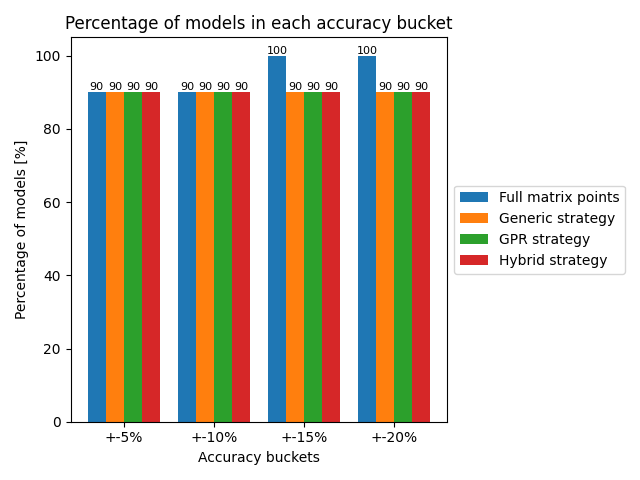
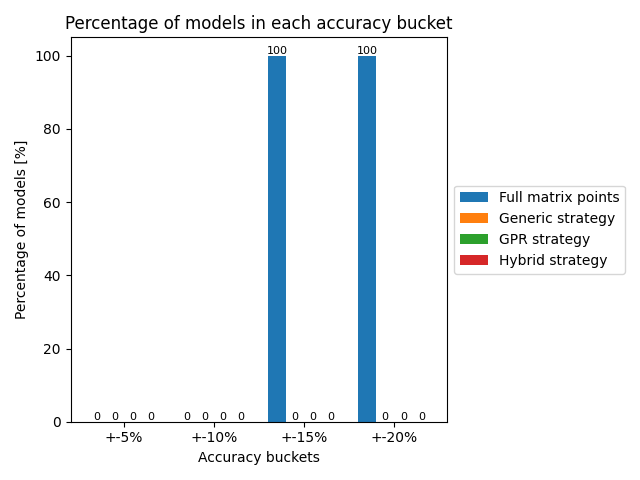
fixed bug for 4 parameters

diff --git a/synthetic_benchmark.py b/synthetic_benchmark.py
@@ -142,9 +142,9 @@ class SyntheticBenchmark():
             if value is not None:
                 setattr(modeler, name, value)
 
-        with ProgressBar(desc='Generating models') as pbar:
-            # create models from data
-            model_generator.model_all(pbar)
+        #with ProgressBar(desc='Generating models') as pbar:
+        # create models from data
+        model_generator.model_all()
 
         modeler = experiment.modelers[0]
         models = modeler.models
@@ -623,10 +623,12 @@ class SyntheticBenchmark():
                         x1_lines[(x2,x3,x4)] = x1
             # calculate the cost of each of the lines
             line_costs = {}
+            #print("x1_lines:",x1_lines)
+
             for key, value in x1_lines.items():
                 line_cost = 0
                 for i in range(len(value)):
-                    point_cost = sum(cost[Coordinate(value[i], key[1], key[2], key[3])])
+                    point_cost = sum(cost[Coordinate(value[i], key[0], key[1], key[2])])
                     line_cost += point_cost
                 line_costs[key] = line_cost
             x2_value, x3_value, x4_value = min(line_costs, key=line_costs.get)
@@ -643,7 +645,7 @@ class SyntheticBenchmark():
             # add these points to the list of selected points
             selected_points = []
             for i in range(len(x1_values)):
-                cord = Coordinate(x1_values[j], x2_value, x3_value, x4_value)
+                cord = Coordinate(x1_values[i], x2_value, x3_value, x4_value)
                 selected_points.append(cord)
 
             #print("selected_points:",selected_points)
@@ -668,7 +670,7 @@ class SyntheticBenchmark():
             for key, value in x2_lines.items():
                 line_cost = 0
                 for i in range(len(value)):
-                    point_cost = sum(cost[Coordinate(key[0], value[i], key[2], key[3])])
+                    point_cost = sum(cost[Coordinate(key[0], value[i], key[1], key[2])])
                     line_cost += point_cost
                 line_costs[key] = line_cost
             x1_value, x3_value, x4_value = min(line_costs, key=line_costs.get)
@@ -684,7 +686,7 @@ class SyntheticBenchmark():
 
             # add these points to the list of selected points
             for i in range(len(x2_values)):
-                cord = Coordinate(x1_value, x2_values[j], x3_value, x4_value)
+                cord = Coordinate(x1_value, x2_values[i], x3_value, x4_value)
                 exists = False
                 for j in range(len(selected_points)):
                     if selected_points[j] == cord:
@@ -715,7 +717,7 @@ class SyntheticBenchmark():
             for key, value in x3_lines.items():
                 line_cost = 0
                 for i in range(len(value)):
-                    point_cost = sum(cost[Coordinate(key[0], key[1], value[i], key[3])])
+                    point_cost = sum(cost[Coordinate(key[0], key[1], value[i], key[2])])
                     line_cost += point_cost
                 line_costs[key] = line_cost
             x1_value, x2_value, x4_value = min(line_costs, key=line_costs.get)
@@ -731,7 +733,7 @@ class SyntheticBenchmark():
 
             # add these points to the list of selected points
             for i in range(len(x3_values)):
-                cord = Coordinate(x1_value, x2_value, x3_values[j], x4_value)
+                cord = Coordinate(x1_value, x2_value, x3_values[i], x4_value)
                 exists = False
                 for j in range(len(selected_points)):
                     if selected_points[j] == cord:
@@ -753,7 +755,7 @@ class SyntheticBenchmark():
                 for j in range(len(experiment.coordinates)):
                     cord_values2 = experiment.coordinates[j].as_tuple()
                     if cord_values2[0] == x1 and cord_values2[1] == x2 and cord_values2[2] == x3:
-                        x3.append(cord_values2[2])
+                        x4.append(cord_values2[3])
                 if len(x4) >= 5:
                     if (x1,x2,x3) not in x4_lines:
                         x4_lines[(x1,x2,x3)] = x4
@@ -778,7 +780,7 @@ class SyntheticBenchmark():
 
             # add these points to the list of selected points
             for i in range(len(x4_values)):
-                cord = Coordinate(x1_value, x2_value, x3_value, x4_values[j])
+                cord = Coordinate(x1_value, x2_value, x3_value, x4_values[i])
                 exists = False
                 for j in range(len(selected_points)):
                     if selected_points[j] == cord:
@@ -1455,6 +1457,8 @@ class SyntheticBenchmark():
         manager = Manager()
         shared_dict = manager.dict()
         cpu_count = mp.cpu_count()
+        #if self.nr_functions <=100:
+        #    cpu_count = 1
 
         inputs = []
         for i in range(self.nr_functions):
